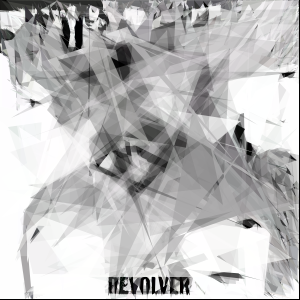
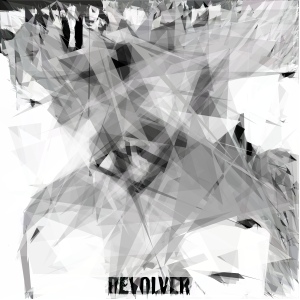
refactor updated revolver output

diff --git a/candidate.go b/candidate.go
@@ -104,34 +104,34 @@ func (c *Candidate) copyOf() *Candidate {
 // mutateInPlace chooses a random polygon from the candidate and makes a random mutation to it.
 func (c *Candidate) mutateInPlace() {
 	locus := rand.Intn(len(c.Polygons))
-	pgon := c.Polygons[locus]
+	poly := c.Polygons[locus]
 	switch randomMutation() {
 	case MutationColor:
-		pgon.Color = mutateColor(pgon.Color)
+		poly.Color = mutateColor(poly.Color)
 
 	case MutationAlpha:
-		pgon.Color = mutateAlpha(pgon.Color)
+		poly.Color = mutateAlpha(poly.Color)
 
 	case MutationPoint:
-		pi := rand.Intn(len(pgon.Points))
-		pgon.Points[pi].mutateNearby(c.W, c.H)
+		pointIndex := rand.Intn(len(poly.Points))
+		poly.Points[pointIndex].mutateNearby(c.W, c.H)
 
 	case MutationZOrder:
 		shufflePolygonZOrder(c.Polygons)
 
 	case MutationAddOrDeletePoint:
-		if len(pgon.Points) == MinPolygonPoints {
+		if len(poly.Points) == MinPolygonPoints {
 			// can't delete
-			pgon.addPoint(randomPoint(c.W, c.H))
-		} else if len(pgon.Points) == MaxPolygonPoints {
+			poly.addPoint(randomPoint(c.W, c.H))
+		} else if len(poly.Points) == MaxPolygonPoints {
 			// can't add
-			pgon.deleteRandomPoint()
+			poly.deleteRandomPoint()
 		} else {
 			// we can do either add or delete
 			if RandomBool() {
-				pgon.addPoint(randomPoint(c.W, c.H))
+				poly.addPoint(randomPoint(c.W, c.H))
 			} else {
-				pgon.deleteRandomPoint()
+				poly.deleteRandomPoint()
 			}
 		}
 
